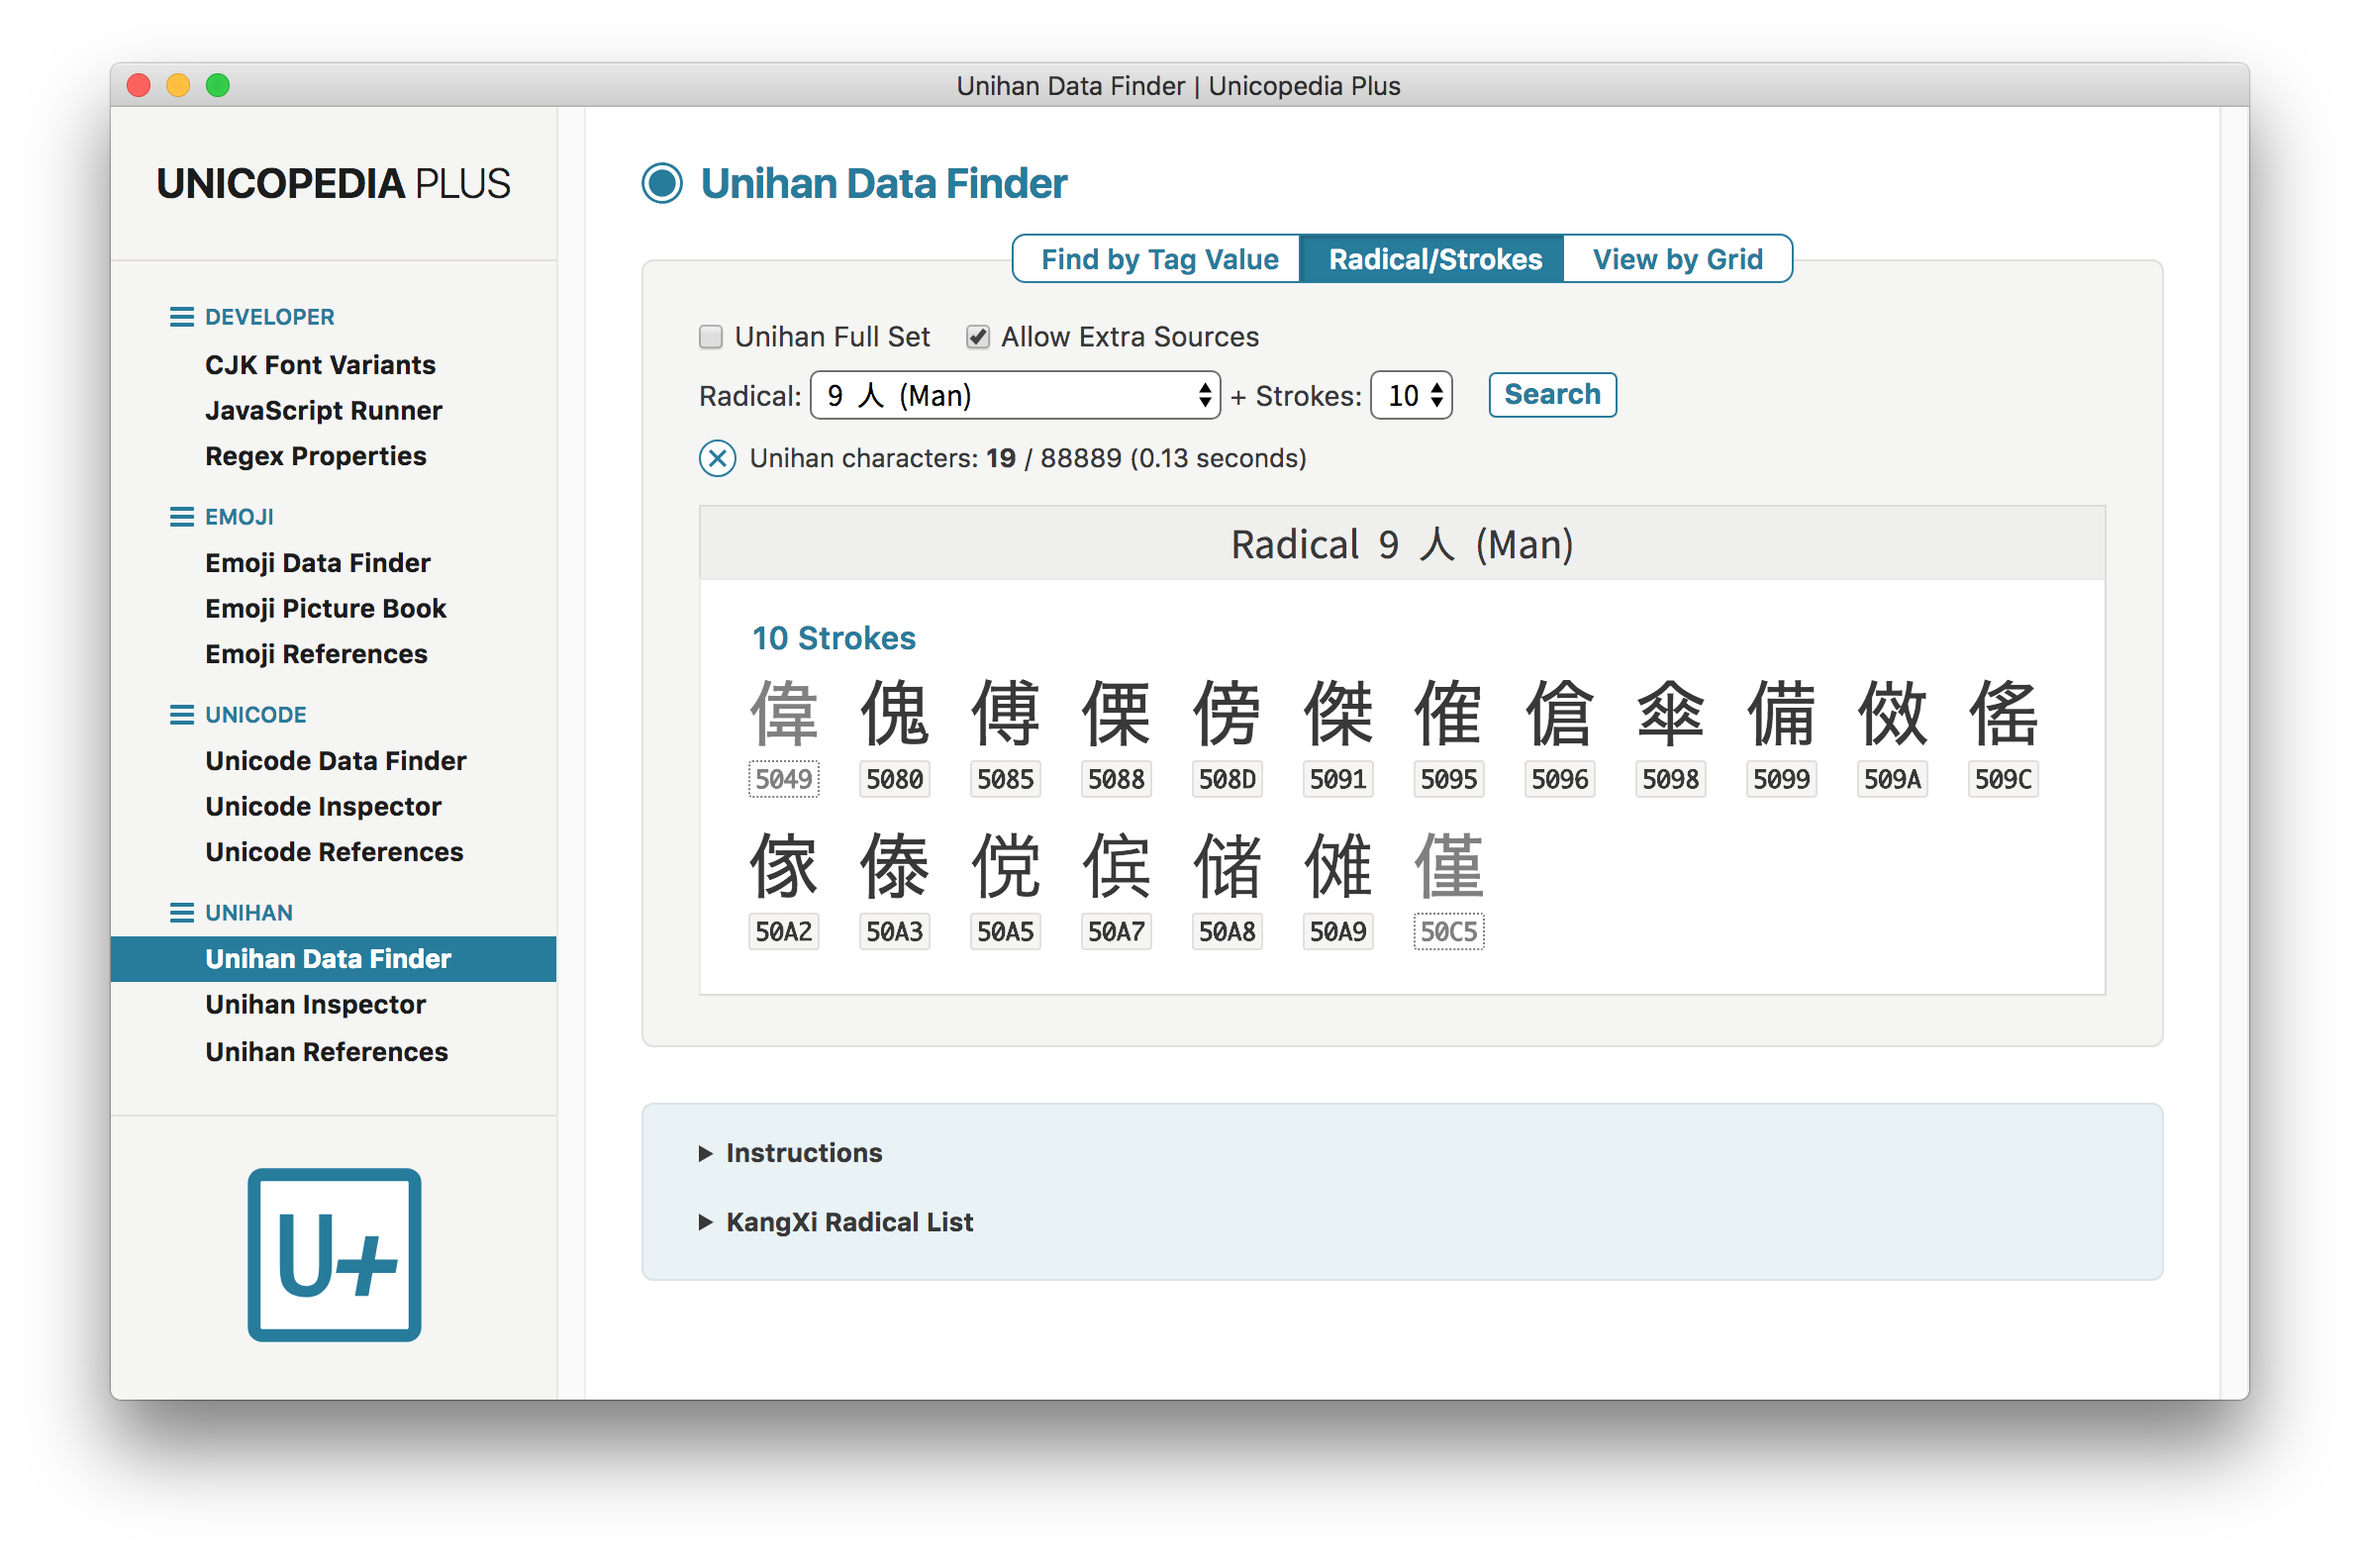
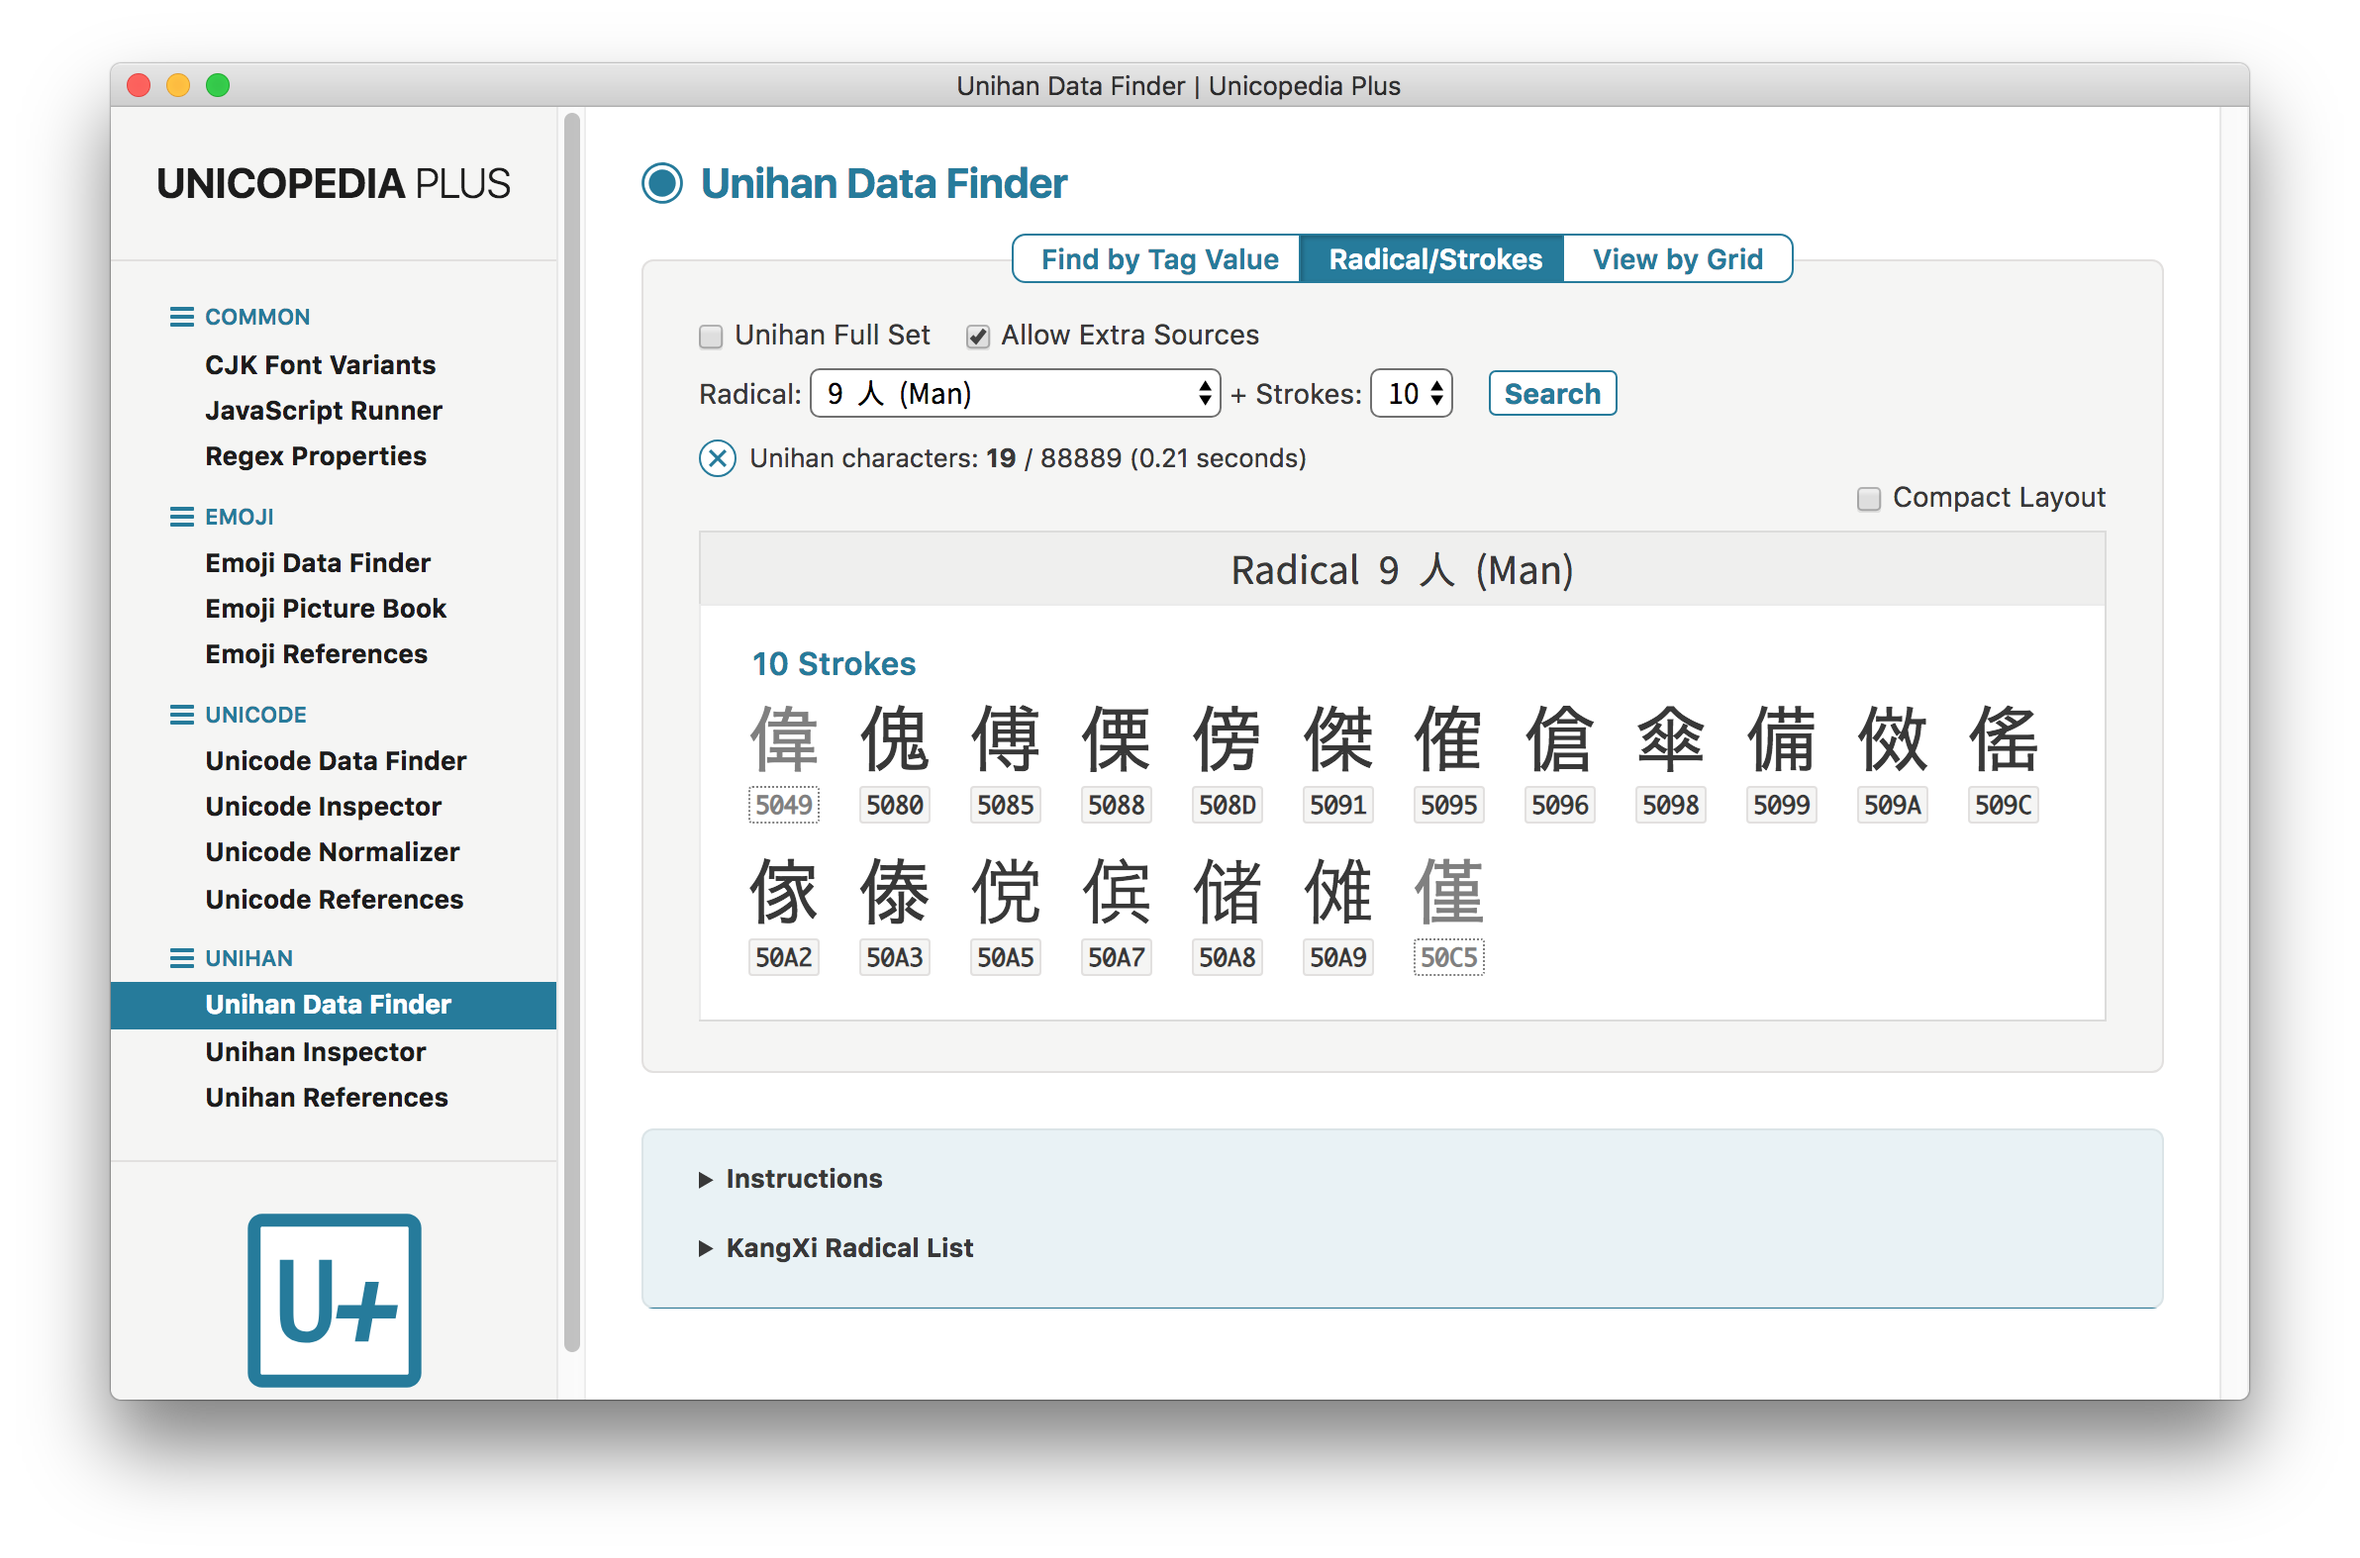
Updated app to 4.6.0

diff --git a/renderer/units/Unihan Data Finder/rs-data-table.js b/renderer/units/Unihan Data Finder/rs-data-table.js
@@ -3,8 +3,31 @@ const deferredSymbols = (process.platform === 'darwin');
 //
 module.exports.create = function (title, items, params)
 {
-    let rsDataTable = document.createElement ('table');
-    rsDataTable.className = 'rs-data-table';
+    let dataTable = document.createElement ('div');
+    //
+    let layoutOptionsGroup = document.createElement ('div');
+    layoutOptionsGroup.className = 'rs-layout-options-group';
+    let compactLabel = document.createElement ('label');
+    let compactCheckbox = document.createElement ('input');
+    compactLabel.appendChild (compactCheckbox);
+    compactLabel.appendChild (document.createTextNode ("\xA0Compact Layout"));
+    compactCheckbox.class = 'compact-checkbox';
+    compactCheckbox.type = 'checkbox';
+    compactCheckbox.checked = params.compactLayout;
+    compactCheckbox.addEventListener
+    (
+        'input',
+        event =>
+        {
+            params.compactLayout = event.target.checked;
+            charactersData.classList.toggle ('compact-layout');
+        }
+    );
+    layoutOptionsGroup.appendChild (compactLabel);
+    dataTable.appendChild (layoutOptionsGroup);
+    //
+    let table = document.createElement ('table');
+    table.className = 'rs-data-table';
     //
     if (deferredSymbols)
     {
@@ -39,19 +62,30 @@ module.exports.create = function (title, items, params)
     titleHeader.className = 'title-header';
     titleHeader.textContent = title;
     titleRow.appendChild (titleHeader);
-    rsDataTable.appendChild (titleRow);
+    table.appendChild (titleRow);
     //
     let charactersRow = document.createElement ('tr');
     charactersRow.className = 'characters-row';
     let charactersData = document.createElement ('td');
     charactersData.className = 'characters-data';
+    if (params.compactLayout)
+    {
+        charactersData.classList.add ('compact-layout');
+    }
     for (let item of items)
     {
         if (item.characters.length > 0)
         {
             let strokesData = document.createElement ('span');
             strokesData.className = 'strokes-data';
-            strokesData.textContent = item.title;
+            let shortTitle = document.createElement ('span');
+            shortTitle.className  = 'short-title';
+            shortTitle.textContent = item.shortTitle;
+            strokesData.appendChild (shortTitle);
+            let longTitle = document.createElement ('span');
+            longTitle.className = 'long-title';
+            longTitle.textContent = item.longTitle;
+            strokesData.appendChild (longTitle);
             charactersData.appendChild (strokesData);
             for (let character of item.characters)
             {
@@ -83,10 +117,11 @@ module.exports.create = function (title, items, params)
                 charactersData.appendChild (characterData);
             }
             charactersRow.appendChild (charactersData);
-            rsDataTable.appendChild (charactersRow);
+            table.appendChild (charactersRow);
         }
     }
+    dataTable.appendChild (table);
     //
-    return rsDataTable;
+    return dataTable;
 }
 //

diff --git a/renderer/units/Unihan Data Finder/import.js b/renderer/units/Unihan Data Finder/import.js
@@ -83,6 +83,7 @@ module.exports.start = function (context)
         rsExtraSourcesCheckbox: false,
         rsRadicalSelect: "",
         rsStrokesSelect: "",
+        rsCompactLayout: false,
         rsInstructions: true,
         rsRadicalList: false,
         //
@@ -398,6 +399,7 @@ module.exports.start = function (context)
     tagInstructions.open = prefs.tagInstructions;
     tagRegexExamples.open = prefs.tagRegexExamples;
     //
+    rsParams.compactLayout = prefs.rsCompactLayout;
     rsParams.observer = null;
     rsParams.root = unit;
     //
@@ -491,7 +493,7 @@ module.exports.start = function (context)
         let items = [ ];
         for (let strokes = options.minStrokes; strokes <= options.maxStrokes; strokes++)
         {
-            items.push ({ title: fromStrokes (strokes, true), characters: [ ] });
+            items.push ({ shortTitle: fromStrokes (strokes), longTitle: fromStrokes (strokes, true), characters: [ ] });
         }
         let codePoints = unihanData.codePoints;
         let set = options.fullSet ? unihanData.fullSet : unihanData.coreSet;
@@ -626,10 +628,10 @@ module.exports.start = function (context)
     //
     const unihanBlocks = require ('./unihan-blocks.json');
     //
-    const tables = require ('../../lib/tables.js');
+    const keyIndex = require ('../../lib/key-index.js');
     //
-    const nameIndex = tables.buildKeyIndex (unihanBlocks, "name", (a, b) => a.localeCompare (b));
-    const firstIndex = tables.buildKeyIndex (unihanBlocks, "first", (a, b) =>  parseInt (a, 16) - parseInt (b, 16));
+    const nameIndex = keyIndex.build (unihanBlocks, "name", (a, b) => a.localeCompare (b));
+    const firstIndex = keyIndex.build (unihanBlocks, "first", (a, b) =>  parseInt (a, 16) - parseInt (b, 16));
     //
     // Unihan character
     let flags = 'u';
@@ -944,6 +946,7 @@ module.exports.stop = function (context)
         rsExtraSourcesCheckbox: rsExtraSourcesCheckbox.checked,
         rsRadicalSelect: rsCurrentRadical,
         rsStrokesSelect: rsCurrentStrokes,
+        rsCompactLayout: rsParams.compactLayout,
         rsInstructions: rsInstructions.open,
         rsRadicalList: rsRadicalList.open,
         //

diff --git a/renderer/lib/unicode/unicode.js b/renderer/lib/unicode/unicode.js
@@ -453,13 +453,16 @@ const versionDate =
 function getCharacterData (character)
 {
     let characterData = { };
-    characterData.utf32 = characterToUtf32Code (character);
-    characterData.utf16 = characterToUtf16Code (character);
-    characterData.utf8 = characterToUtf8Code (character);
-    characterData.urlEncoding = characterToUrlEncoding (character);
-    characterData.entity = characterToDecimalEntity (character)
-    characterData.javaScript = characterToJavaScriptEscape (character);
-    characterData.ecmaScript6 = characterToEcmaScript6Escape (character);
+    if (!(/^[\uD800-\uDFFF]$/.test (character))) // Or /^\p{Surrogate}$/ (isolated/lone surrogate)
+    {
+        characterData.utf32 = characterToUtf32Code (character);
+        characterData.utf16 = characterToUtf16Code (character);
+        characterData.utf8 = characterToUtf8Code (character);
+        characterData.urlEncoding = characterToUrlEncoding (character);
+        characterData.entity = characterToDecimalEntity (character)
+        characterData.javaScript = characterToJavaScriptEscape (character);
+        characterData.ecmaScript6 = characterToEcmaScript6Escape (character);
+    }
     let num = character.codePointAt (0);
     let hex = num.toString (16).toUpperCase ();
     if (hex.length < 5)

diff --git a/renderer/units/Unihan Data Finder/import.css b/renderer/units/Unihan Data Finder/import.css
@@ -420,6 +420,12 @@
     fill: currentColor;
 }
 
+#unihan-data-finder-unit .rs-layout-options-group
+{
+    text-align: right;
+    margin-top: -0.5em; margin-bottom: -0.5em;
+}
+
 #unihan-data-finder-unit .rs-data-table
 {
     margin: 1em 0 0.75em 0;
@@ -447,6 +453,44 @@
     padding: 0.25em 0.75em;
     margin-top: 2px;
     margin-bottom: -2px;
+}
+
+#unihan-data-finder-unit .rs-data-table .strokes-data .long-title
+{
+    display: inline;
+}
+
+#unihan-data-finder-unit .rs-data-table .strokes-data .short-title
+{
+    display: none;
+}
+
+#unihan-data-finder-unit .rs-data-table .compact-layout .strokes-data
+{
+    display: inline-flex;
+    align-items: center;
+    justify-content: center;
+    vertical-align: top;
+    font-size: 24px;
+    font-weight: 600;
+    background-color: white;
+    color: var(--color-accent);
+    border: 2px solid var(--color-accent);
+    /* border-radius: 50%; */
+    padding: 0;
+    margin: 7px 8px;
+    width: 40px;
+    height: 40px;
+}
+
+#unihan-data-finder-unit .rs-data-table .compact-layout .strokes-data .long-title
+{
+    display: none;
+}
+
+#unihan-data-finder-unit .rs-data-table .compact-layout .strokes-data .short-title
+{
+    display: inline;
 }
 
 #unihan-data-finder-unit .rs-data-table .characters-row .characters-data

diff --git a/main.js b/main.js
@@ -401,11 +401,6 @@ else
             }
         );
         //
-        // Electron 3.0.0 bug fix for the time being, to avoid extra gap on the bottom and right of the maximized main window...
-        // Unfortunately, brings other odd issues when unmaximizing...
-        // mainWindow.setPosition (windowBounds.x, windowBounds.y);
-        // mainWindow.setSize (windowBounds.width, windowBounds.height);
-        //
         mainWindow.loadURL (url.format ({ protocol: 'file', slashes: true, pathname: path.join (__dirname, 'renderer', 'index.html') }));
         //
         mainWindow.webContents.on ('will-navigate', (event) => { event.preventDefault (); }); // Inhibit drag-and-drop of URL on window

diff --git a/renderer/units/Unicode Data Finder/import.js b/renderer/units/Unicode Data Finder/import.js
@@ -452,10 +452,10 @@ module.exports.start = function (context)
         }
     );
     //
-    const tables = require ('../../lib/tables.js');
+    const keyIndex = require ('../../lib/key-index.js');
     //
-    const firstIndex = tables.buildKeyIndex (allBlocks, "firstIndex", (a, b) => a - b);
-    const nameIndex = tables.buildKeyIndex (allBlocks, "name", (a, b) => a.localeCompare (b));
+    const firstIndex = keyIndex.build (allBlocks, "firstIndex", (a, b) => a - b);
+    const nameIndex = keyIndex.build (allBlocks, "name", (a, b) => a.localeCompare (b));
     //
     function displayRangeTable (blockKey, highlightedCharacter)
     {

diff --git a/renderer/lib/key-index.js b/renderer/lib/key-index.js
@@ -1,0 +1,13 @@
+//
+module.exports.build = function (table, key, compareFunction)
+{
+    // let keyIndex = Array.from (new Array (table.length), (x, i) => i);
+    let keyIndex = [ ];
+    for (let index = 0; index < table.length; index++)
+    {
+        keyIndex.push (index);
+    }
+    keyIndex.sort ((a, b) => compareFunction (table[a][key], table[b][key]) || (a - b)); // Preserve order (stable sort)
+    return keyIndex;
+};
+//

diff --git a/renderer/units/CJK Font Variants/import.js b/renderer/units/CJK Font Variants/import.js
@@ -182,10 +182,10 @@ module.exports.start = function (context)
     //
     references.open = prefs.references;
     //
-    const refLinks = require ('./ref-links.json');
+    const cjkLinks = require ('./cjk-links.json');
     const linksList = require ('../../lib/links-list.js');
     //
-    linksList (links, refLinks);
+    linksList (links, cjkLinks);
 };
 //
 module.exports.stop = function (context)

diff --git a/renderer/units/Unihan Data Finder/radicals-table.js b/renderer/units/Unihan Data Finder/radicals-table.js
@@ -115,6 +115,8 @@ module.exports.create = function (kangxiRadicals)
             radicalsTable.appendChild (dataRow);
         }
     );
+    let footerRow = headerRow.cloneNode (true);
+    radicalsTable.appendChild (footerRow);
     return radicalsTable;
 }
 //
